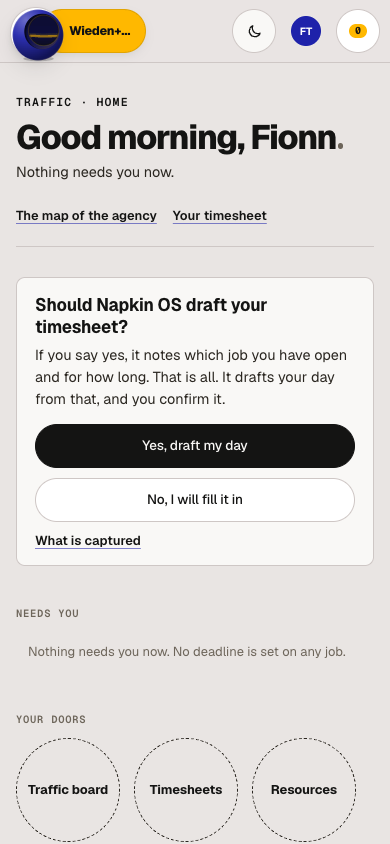
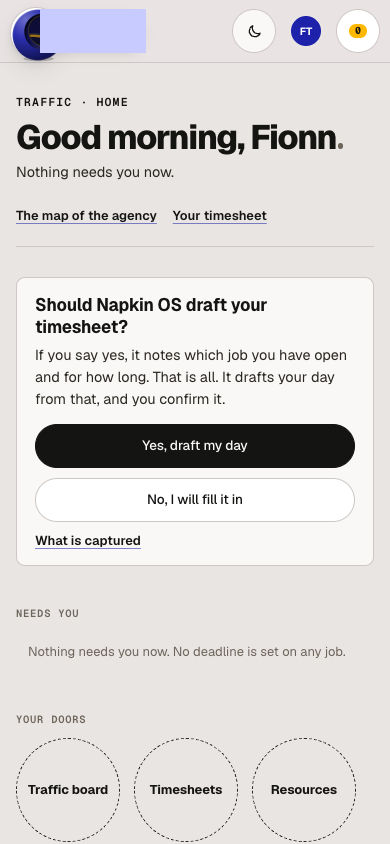
docs: retake the five homes' screenshots with the agency name masked
The roster agency's real name showed in the top bar of every shot and in
the centre of the O. The spec now masks the agency pill and the O's logo,
and the 14 shots are retaken from it.

Changed region(s): [[0.0923, 0.0, 0.4, 0.0616]]

diff --git a/app/e2e/j001-p2-remaining-homes.spec.ts b/app/e2e/j001-p2-remaining-homes.spec.ts
@@ -15,6 +15,7 @@ const SIZES: Size[] = [{ tag: '390', width: 390, height: 844 }, { tag: '1440', w
 const MODES = ['white', 'grey', 'black'] as const
 const rosterURL = `http://127.0.0.1:${process.env.NAPKIN_E2E_ROSTER_PORT || '18082'}`
 const shots = process.env.NAPKIN_E2E_SHOTS
+// The roster agency wears a real agency's name: the pill and the O's centre are masked in every screenshot, never shown.
 
 const SHORT: Record<number, string> = {
   19: 'the five Phase 2 roles see their own doors',
@@ -131,7 +132,7 @@ for (const size of SIZES) {
       await expect(empty.getByRole('button')).toHaveCount(1)
       await expect(empty.getByText(verb, { exact: true })).toBeVisible()
       await expect(door.getByRole('alert')).toHaveCount(0)
-      if (shots && name === 'Radio') await page.screenshot({ path: `${shots}/door-radio-${size.tag}.png` })
+      if (shots && name === 'Radio') await page.screenshot({ path: `${shots}/door-radio-${size.tag}.png`, mask: [page.getByTestId('agency-pill'), page.getByTestId('o-logo')], maskColor: '#C8CBFF' })
     }
     // a More tools line opens its own Empty state too
     await page.goto('/')
@@ -158,7 +159,7 @@ for (const size of SIZES) {
       await page.getByTestId('o-circle').first().click()
       await expect(page.getByTestId('home')).toBeVisible()
       expect(await texts(page, 'door'), `${role}: the first circle opens their own home`).toEqual([...HOMES[role].doors])
-      if (shots && role === 'artDirector') { await page.goto('/#map'); await page.screenshot({ path: `${shots}/the-o-art-director-${size.tag}.png` }) }
+      if (shots && role === 'artDirector') { await page.goto('/#map'); await page.screenshot({ path: `${shots}/the-o-art-director-${size.tag}.png`, mask: [page.getByTestId('agency-pill'), page.getByTestId('o-logo')], maskColor: '#C8CBFF' }) }
       await ctx.close()
     }
   })
@@ -181,7 +182,7 @@ for (const size of SIZES) {
             if (box.height < 44 || box.width < 44) problems.push(`${role} ${mode}: a door is ${Math.round(box.width)} by ${Math.round(box.height)} px`)
           }
         }
-        if (shots && mode === 'white') await page.screenshot({ path: `${shots}/home-${SLUG[role]}-${size.tag}.png`, fullPage: true })
+        if (shots && mode === 'white') await page.screenshot({ path: `${shots}/home-${SLUG[role]}-${size.tag}.png`, fullPage: true, mask: [page.getByTestId('agency-pill'), page.getByTestId('o-logo')], maskColor: '#C8CBFF' })
         await ctx.close()
       }
     }
